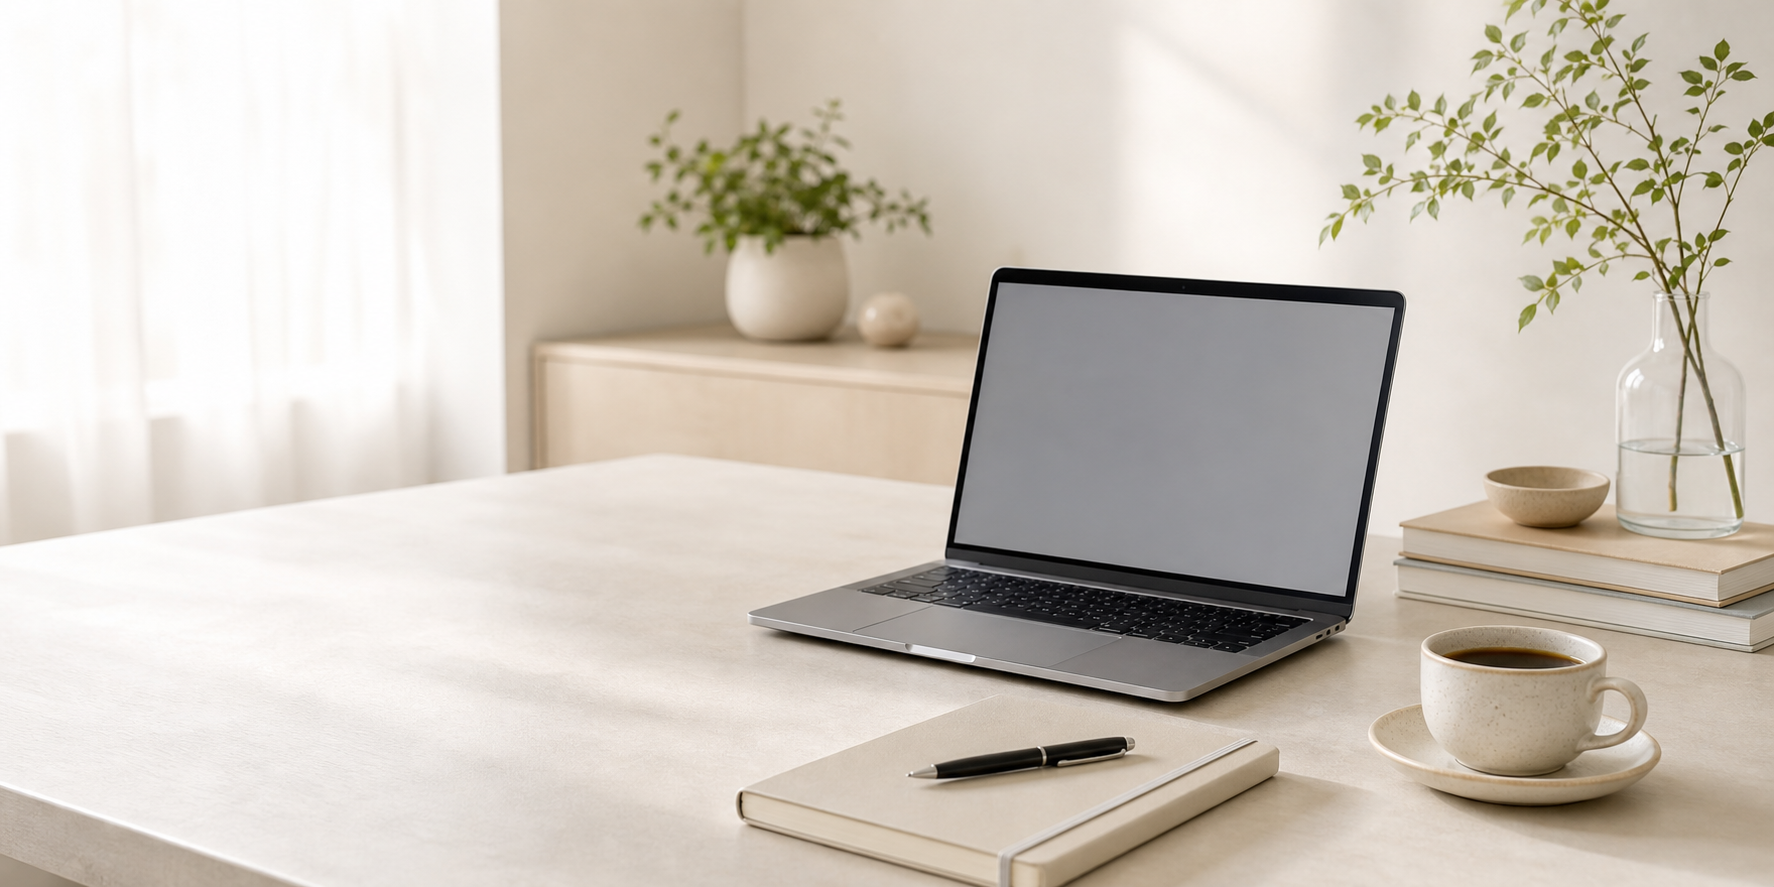
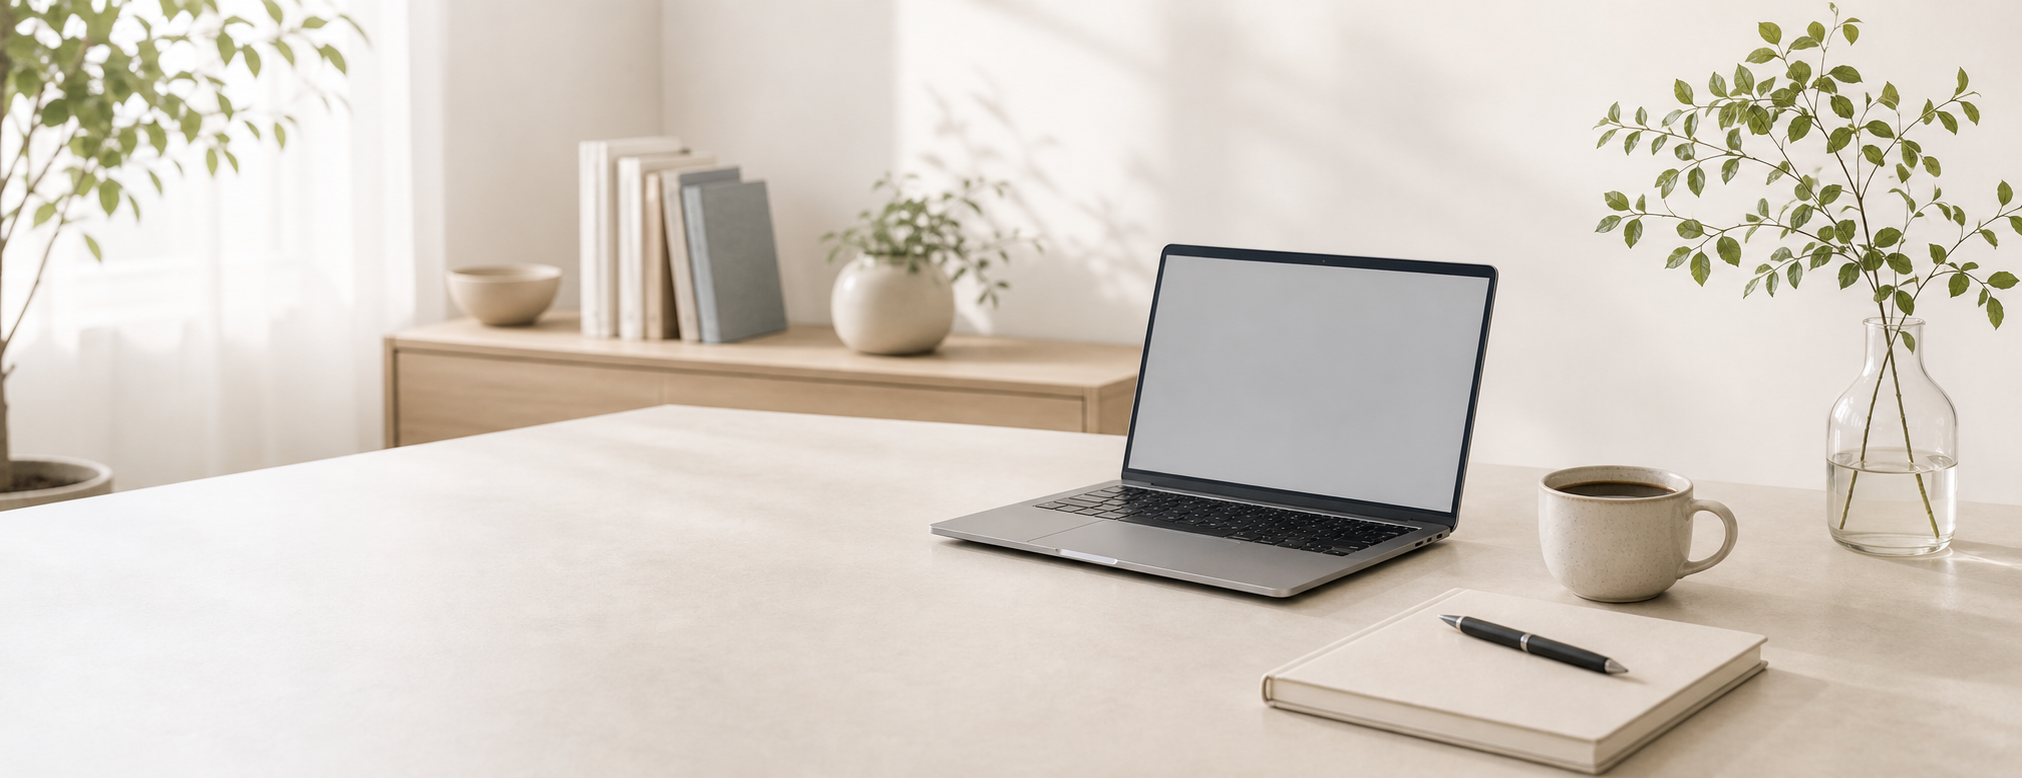
入口ページのヒーロー画像を調整

diff --git a/assets/css/site.css b/assets/css/site.css
@@ -1775,6 +1775,14 @@ h1 {
     margin-left: auto;
   }
 
+  .site-ai .tk-hero__image {
+    aspect-ratio: 2.6 / 1;
+  }
+
+  .site-photo .tk-hero__image {
+    aspect-ratio: 2.6 / 1;
+  }
+
   .tk-hero__image img {
     min-height: 0;
     max-height: none;

diff --git a/photo/index.html b/photo/index.html
@@ -29,7 +29,7 @@
   <main>
     <section class="tk-hero" id="home">
       <div class="tk-hero__image" data-reveal>
-        <img src="/images/placeholder-photo-hero.svg" alt="写真撮影ページの仮画像">
+        <img src="/images/photo-hero.png" alt="写真撮影ページのイメージ">
       </div>
       <div class="tk-hero__copy" data-reveal>
         <p class="tk-label">Photography</p>